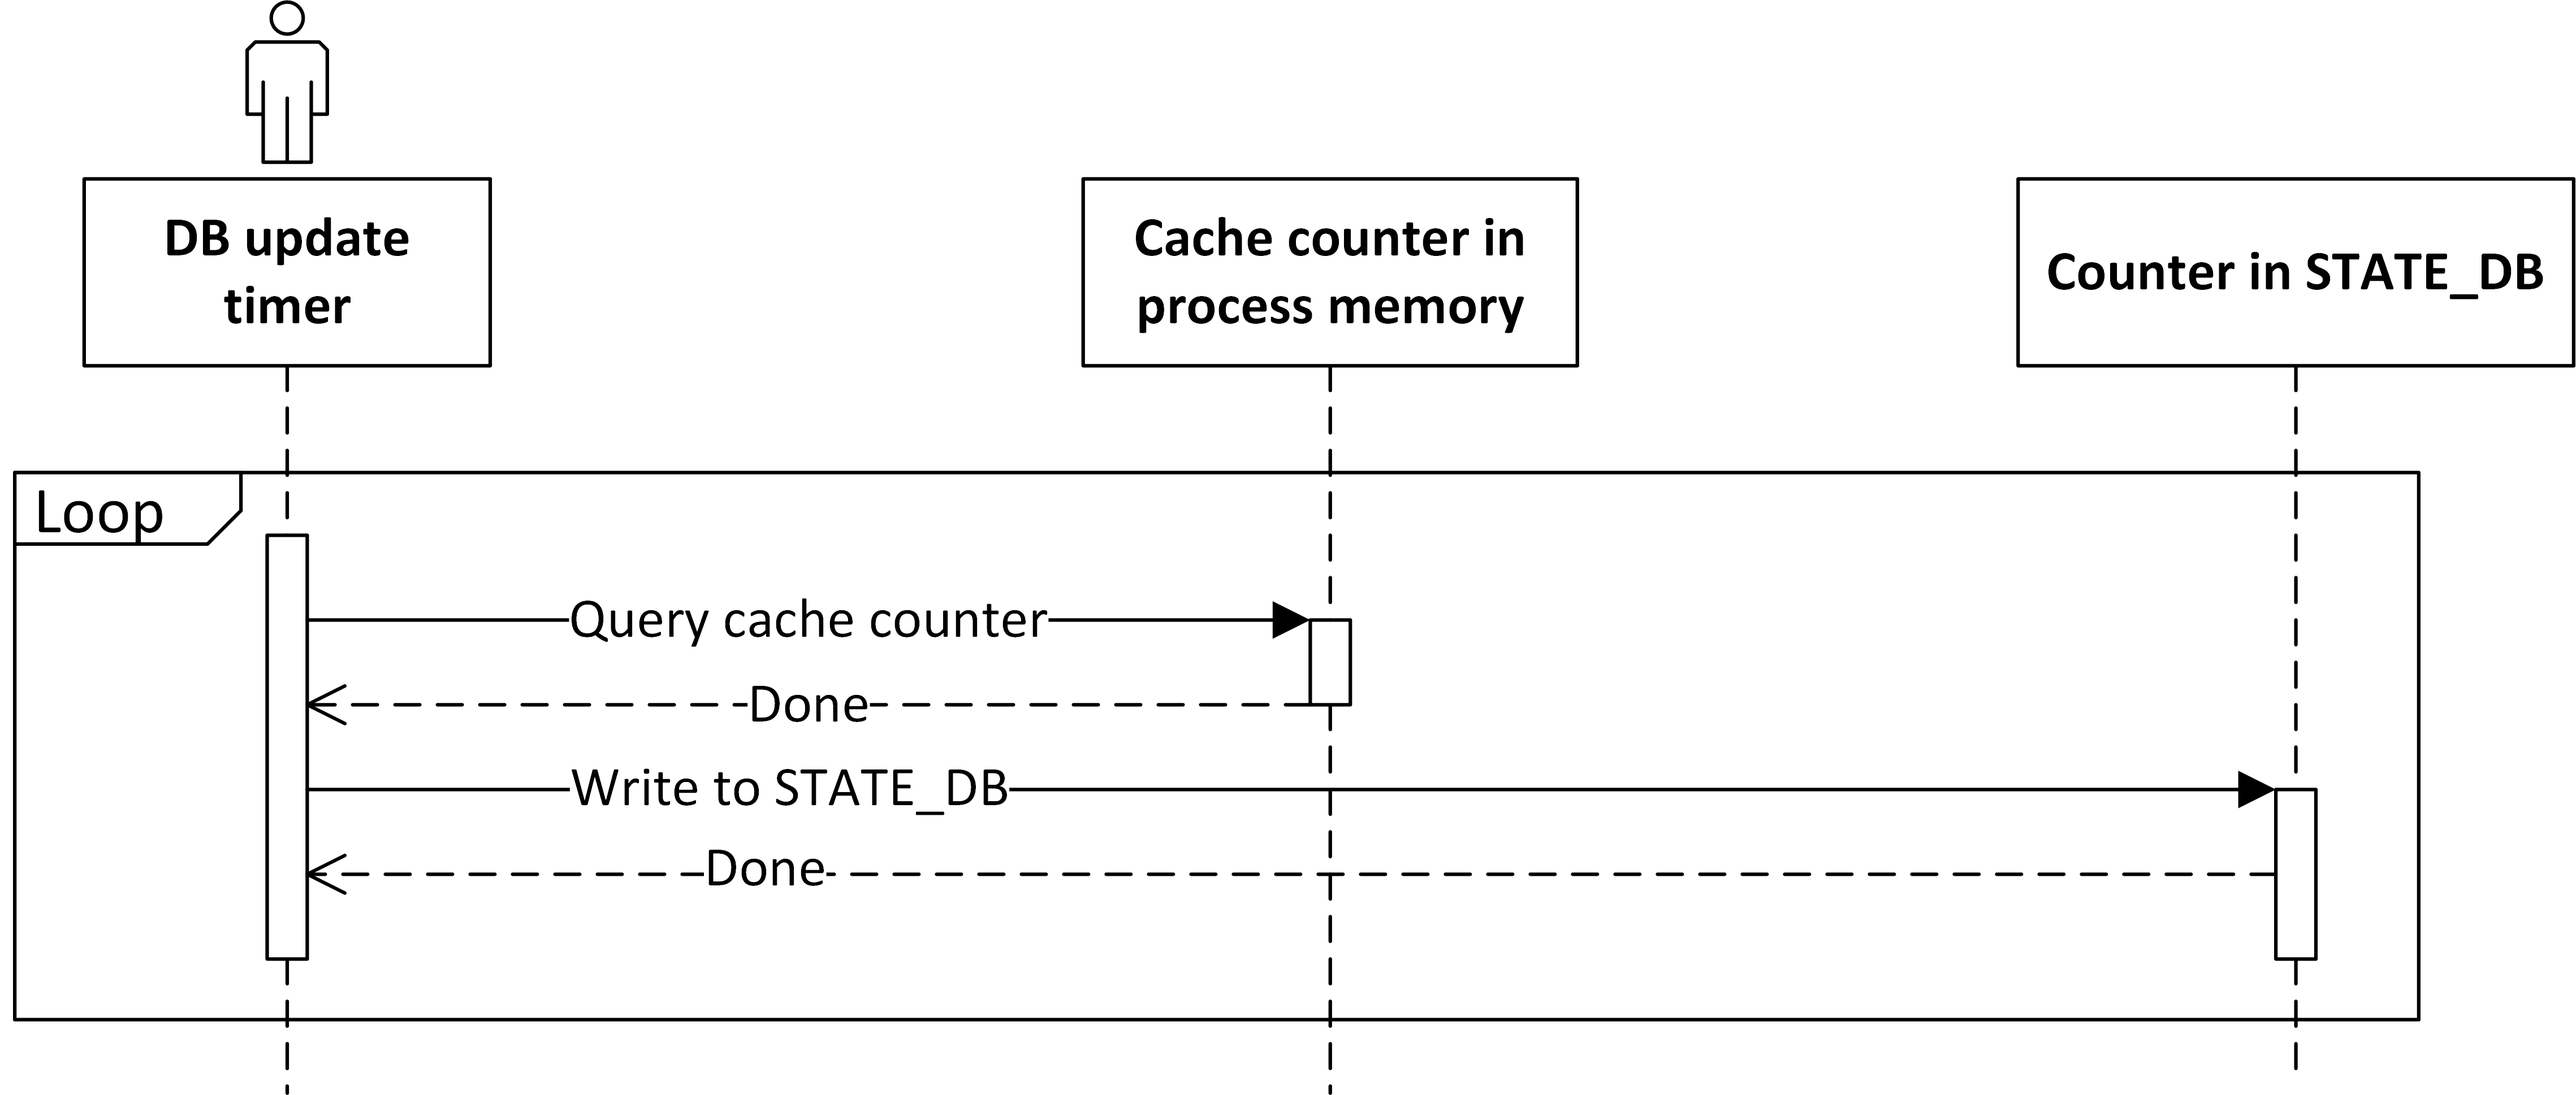
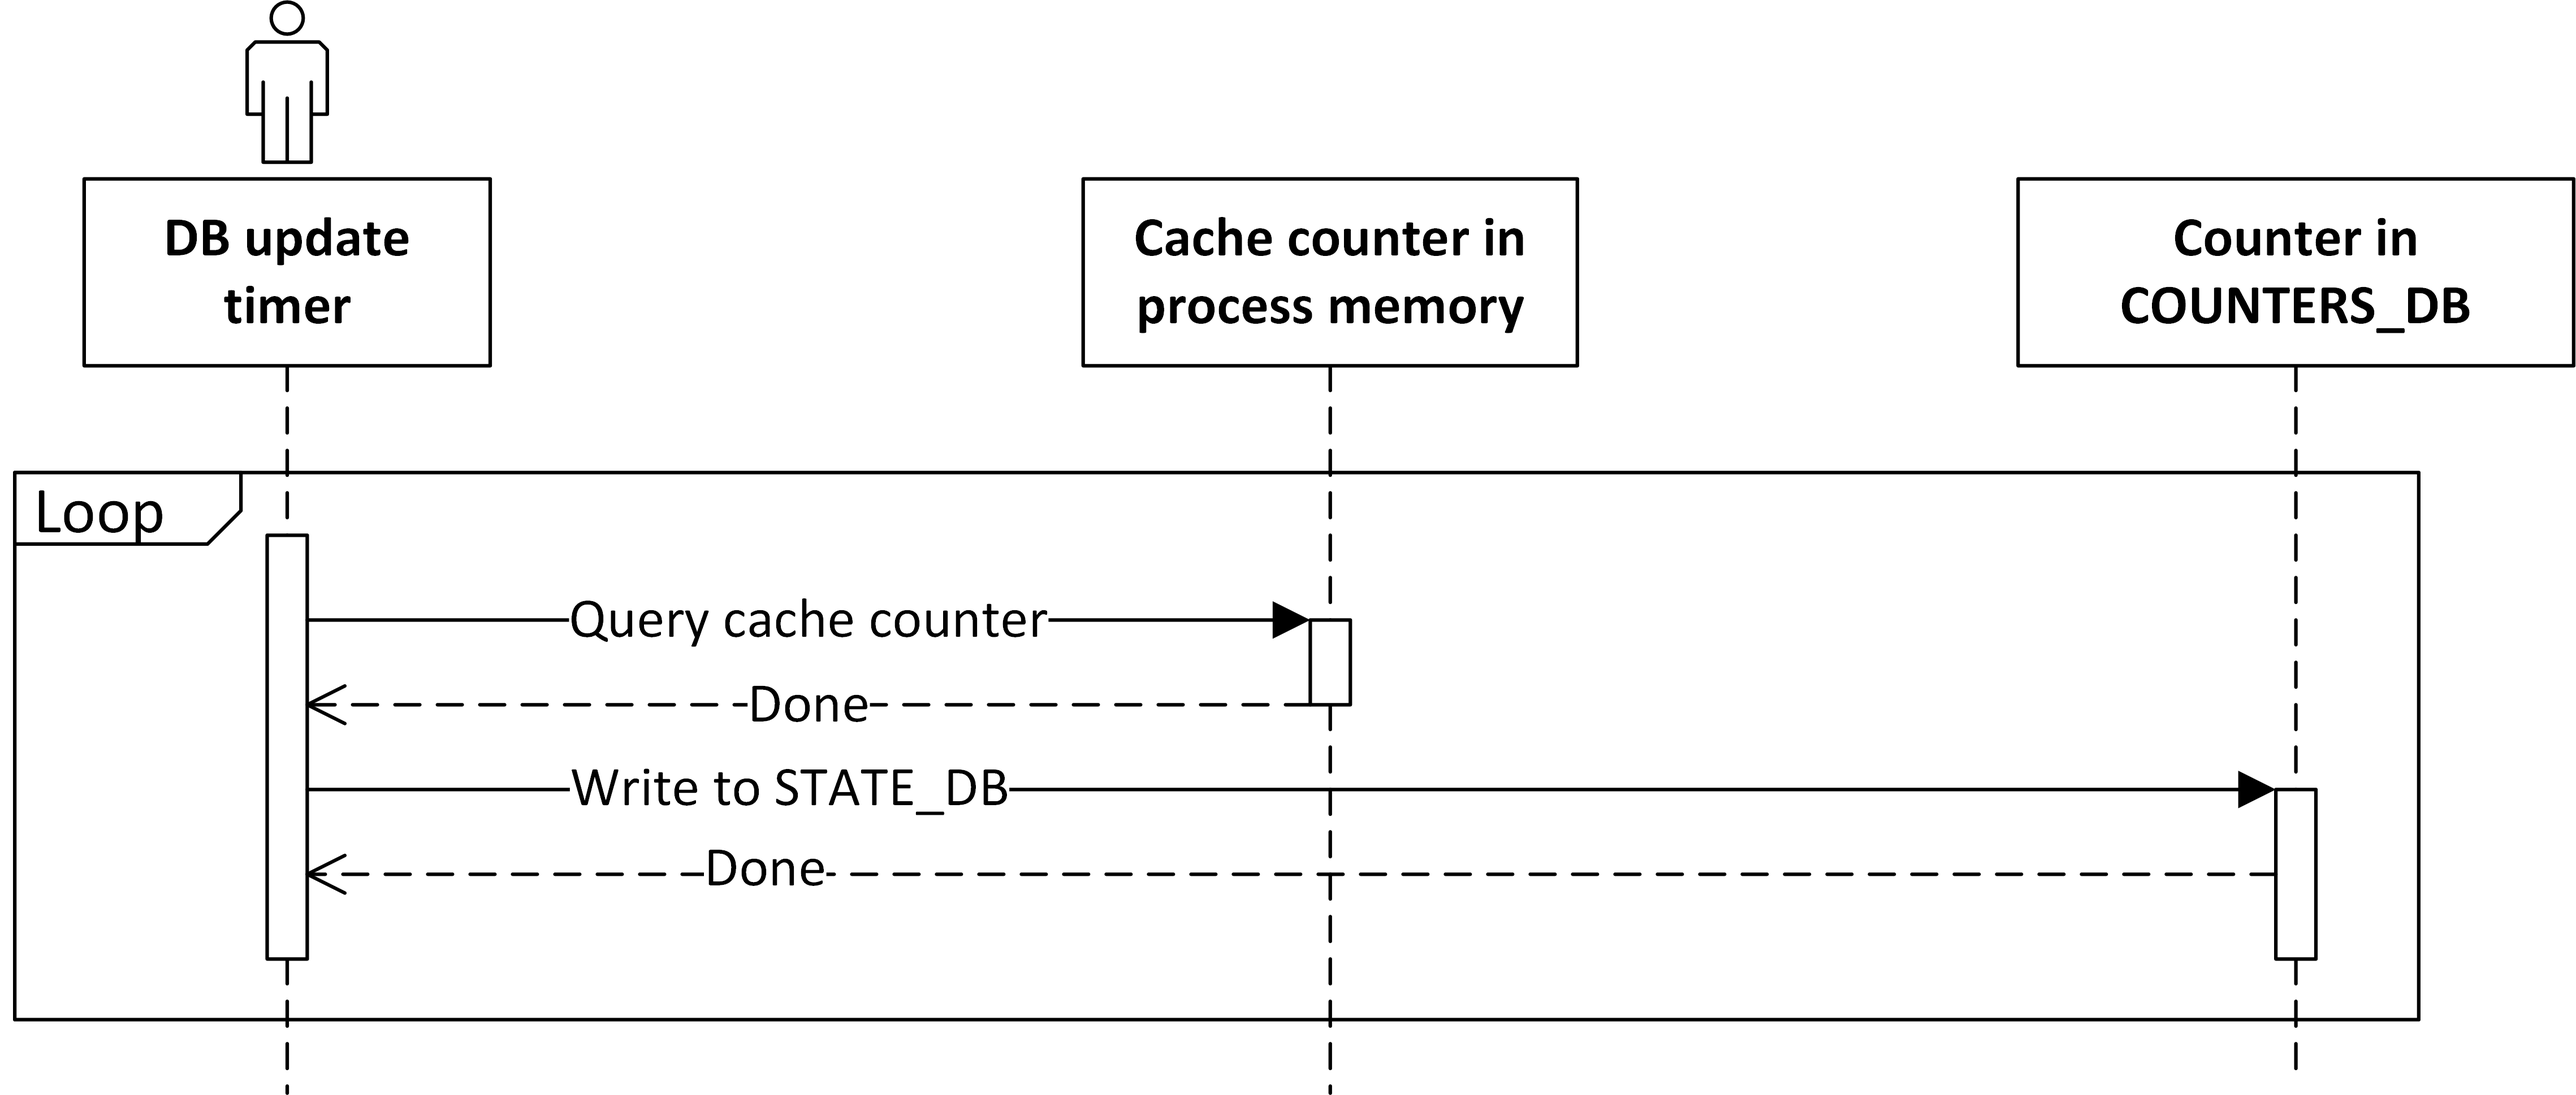
Update

Changed region(s): [[0.7792, 0.1858, 0.9974, 0.3096]]

diff --git a/doc/dhcp_relay/DHCPv4-per-interface-counter.md b/doc/dhcp_relay/DHCPv4-per-interface-counter.md
@@ -40,7 +40,7 @@ Currently, DHCPv4 counter in dhcpmon mainly focus on Vlan / PortChannel interfac
 
 ## Functional Requirements
 
-1. Count ingress and egress DHCPv4 packets based on interface and store it in STATE_DB.
+1. Count ingress and egress DHCPv4 packets based on interface and store it in COUNTERS_DB.
 2. SONiC CLI to show / clear counter.
 
 # Design
@@ -81,9 +81,9 @@ In this stage, dhcpmon would do some preparations, there are 2 points need to be
          ```
 
 2. Init DB/check dounter
-dhcpmon would create counter for corresponding interfaces in process memory and STATE_DB and set them to be 0.
+dhcpmon would create counter for corresponding interfaces in process memory and COUNTERS_DB and set them to be 0.
 
-With above structure, packets processing and all writing actions to cache counter in process memory would be done in **main thread**, and all writing actions to STATE_DB would be done in **DB update thread**.
+With above structure, packets processing and all writing actions to cache counter in process memory would be done in **main thread**, and all writing actions to COUNTERS_DB would be done in **DB update thread**.
 
 ### Per-interface counting (Main thread)
 
@@ -97,15 +97,15 @@ With above structure, packets processing and all writing actions to cache counte
 
 <div align="center"> <img src=images/persist_multi_thread.png width=440 /> </div>
 
-DB update timer would be invoked periodically (**every 20s**) in another thread which is different with main thread. It would sync **all data** from cache couonter to STATE_DB.
+DB update timer would be invoked periodically (**every 20s**) in another thread which is different with main thread. It would sync **all data** from cache couonter to COUNTERS_DB.
 
 ### Clear Counter (Main thread)
 
 <div align="center"> <img src=images/clear_counter.png width=500 /> </div>
 
-When user invokes SONiC Cli to clear counter, it would directly clear corresponding data in STATE_DB, then a signal to clear cache counter would be sent to dhcpmon process.
+When user invokes SONiC Cli to clear counter, it would directly clear corresponding data in COUNTERS_DB, then a signal to clear cache counter would be sent to dhcpmon process.
 
-After receiving signal to clear cache, dhcpmon process would sync counter data from STATE_DB into process memory. This operation is done in `main thread`.
+After receiving signal to clear cache, dhcpmon process would sync counter data from COUNTERS_DB into process memory. This operation is done in `main thread`.
 
 ## Counter Logic
 
@@ -145,22 +145,27 @@ In Dual-ToR there are some behaviors different with single ToR:
 ## Counter Reset
 
 * Container restart
+  * We would add clear all counter data logic in startup script `start.sh` inside dhcp_relay container. Then When dhcp_relay containter restarting, all counter data would be cleared.
+* Process restart
   * One dhcpmon process would only listen on one downlink Vlan interface, hence dhcpmon process restart will initialize (counter set to zero) for interface in below list:
     * Downlink / Uplink context interfaces given by startup parameter.
     * Related Vlan member interfaces from CONFIG_DB table `VLAN_MEMBER|Vlanxxx`.
     * Related PortChannel member interfaces from CONFIG_DB table `PORTCHANNEL_MEMBER|PortChannelxxx`.
 * Vlan add/del
   * For now, after vlan adding or deleting, it requires dhcp_relay container be restarted to take effect. Vlan del Cli would automatically restart dhcp_relay container, other scenarios need manually restart. Then it could be referred to above `container restart` part
-* Vlan / PortChannel member change
+* Vlan / PortChannel member change 
   * Member add: It's expected to add entry and set counter to zero for member interface.
   * Member del: It's expected to delete related counter entry.
+  * **Note: This requires db change subscription support. In early stage, we will mainly focus on key functionality. This feature maybe be supported in future.**
+* PortChannel change 
+  * It's expected to add entry and set counter to zero for adding portchannel and delete related counter entry for deleting portchannel.
   * **Note: This requires db change subscription support. In early stage, we will mainly focus on key functionality. This feature maybe be supported in future.**
 
 ## DB Change
 
-### State DB
+### Counters DB
 
-Following table changes would be added in State DB, including **DHCP_COUNTER_TABLE** table.
+Following table changes would be added in Counters DB, including **DHCP_COUNTER_TABLE** table.
 
 ```
 {
@@ -206,40 +211,41 @@ This command is used to show dhcp_relay counter.
     Packet type Abbr: Un - Unknown, Dis - Discover, Off - Offer, Req - Request,
                       Ack - Acknowledge, Rel - Release, Inf - Inform,
                       Dec - Decline
-    +-----------------------+-----+-----+-----+-----+-----+-----+-----+-----+-----+
-    | Vlan1000 (TX)         | Un  | Dis | Off | Req | Ack | Rel | Inf | Dec | Nak |
-    ------------------------+-----+-----+-----+-----+-----+-----+-----+-----+-----+
-    | Downlink - Ethernet1  | 0   | 0   | 2   | 0   | 2   | 0   | 0   | 0   | 0   |
-    | Downlink - Ethernet2  | 0   | 0   | 2   | 0   | 2   | 0   | 0   | 0   | 0   |
-    | Uplink - Ethernet46   | 0   | 2   | 0   | 2   | 0   | 0   | 0   | 0   | 0   |
-    | Uplink - Ethernet47   | 0   | 2   | 0   | 2   | 0   | 0   | 0   | 0   | 0   |
-    | Uplink - PortChannel1 | 0   | 2   | 0   | 2   | 0   | 0   | 0   | 0   | 0   |
-    | Uplink - PortChannel2 | 0   | 2   | 0   | 2   | 0   | 0   | 0   | 0   | 0   |
-    +-----------------------+-----+-----+-----+-----+-----+-----+-----+-----+-----+
+    Interface type Abbr: D - Downlink, U - Uplink
+    +---------------+-----------+-----+-----+-----+-----+-----+-----+-----+-----+-----+
+    | Vlan1000 (TX) | Intf Type | Un  | Dis | Off | Req | Ack | Rel | Inf | Dec | Nak |
+    ----------------+-----------+-----+-----+-----+-----+-----+-----+-----+-----+-----+
+    | Ethernet1     | Downlink  | 0   | 2   | 0   | 2   | 0   | 0   | 0   | 0   | 0   |
+    | Ethernet2     | Downlink  | 0   | 2   | 0   | 2   | 0   | 0   | 0   | 0   | 0   |
+    | Ethernet46    | Uplink    | 2   | 0   | 2   | 0   | 0   | 0   | 0   | 0   | 0   |
+    | Ethernet47    | Uplink    | 2   | 0   | 2   | 0   | 0   | 0   | 0   | 0   | 0   |
+    | PortChannel1  | Uplink    | 2   | 0   | 2   | 0   | 0   | 0   | 0   | 0   | 0   |
+    | PortChannel2  | Uplink    | 2   | 0   | 2   | 0   | 0   | 0   | 0   | 0   | 0   |
+    +---------------+-----------+-----+-----+-----+-----+-----+-----+-----+-----+-----+
 
     show dhcp_relay ipv4 counter Vlan1000 --type Discover
-    +----------------------+----+----+
-    |Vlan1000 (Discover)   | TX | RX |
-    +----------------------+----+----+
-    |Downlink - Ethernet1  | 0  | 2  |
-    |Downlink - Ethernet2  | 0  | 0  |
-    |Uplink - Ethernet46   | 2  | 0  |
-    |Uplink - Ethernet47   | 0  | 0  |
-    |Uplink - PortChannel1 | 2  | 0  |
-    |Uplink - PortChannel2 | 0  | 0  |
-    +----------------------+----+----+
+    +--------------------+-----------+----+----+
+    |Vlan1000 (Discover) | Intf Type | TX | RX |
+    +--------------------+-----------+----+----+
+    |Ethernet1           | Downlink  | 0  | 2  |
+    |Ethernet2           | Downlink  | 0  | 0  |
+    |Ethernet46          | Uplink    | 2  | 0  |
+    |Ethernet47          | Uplink    | 0  | 0  |
+    |PortChannel1        | Uplink    | 2  | 0  |
+    |PortChannel2        | Uplink    | 0  | 0  |
+    +--------------------+-----------+----+----+
 
     show dhcp_relay ipv4 counter Vlan1000 --type Discover --dir TX
-    +----------------------+----+
-    |Vlan1000 (Discover)   | TX |
-    +----------------------+----+
-    |Downlink - Ethernet1  | 0  |
-    |Downlink - Ethernet2  | 0  |
-    |Uplink - Ethernet46   | 2  |
-    |Uplink - Ethernet47   | 0  |
-    |Uplink - PortChannel1 | 2  |
-    |Uplink - PortChannel2 | 0  |
-    +----------------------+----+
+    +--------------------+-----------+----+
+    |Vlan1000 (Discover) | Intf Type | TX |
+    +--------------------+-----------+----+
+    |Ethernet1           | Downlink  | 0  |
+    |Ethernet2           | Downlink  | 0  |
+    |Ethernet46          | Uplink    | 2  |
+    |Ethernet47          | Uplink    | 0  |
+    |PortChannel1        | Uplink    | 2  |
+    |PortChannel2        | Uplink    | 0  |
+    +--------------------+-----------+----+
     ```
 
 ## Clear Cli
@@ -280,4 +286,5 @@ This command is used to clear DHCPv4 counter
 
 ## sonic-mgmt
 1. Basic counter functionatility test
-2. Stress test for counter
+2. Test to verify conter table initialization and reseting
+3. Stress test for counter
